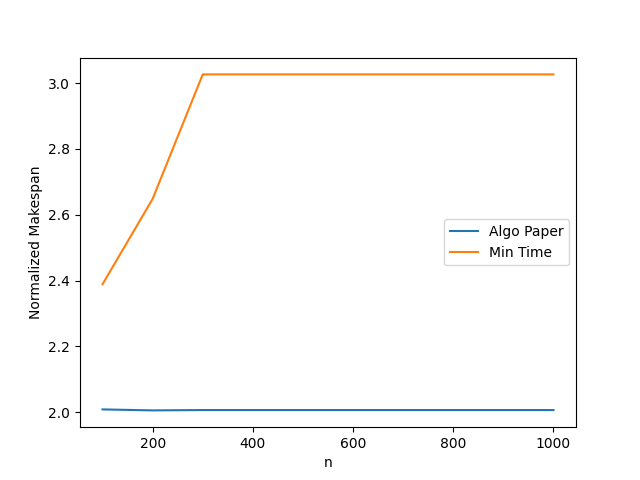
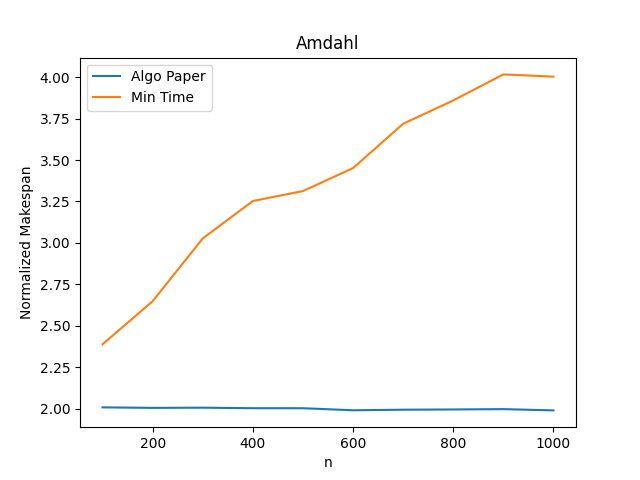
Result of simulation for all models, varying n and p

diff --git a/main.py b/main.py
@@ -5,7 +5,7 @@ from statistics import *
 import matplotlib.pyplot as plt
 import logging
 
-nb_iterations = 2
+nb_iterations = 10
 
 
 # Computations for the first version of the processor allocation algorithm (minimizing alpha)
